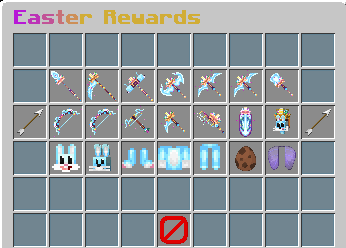
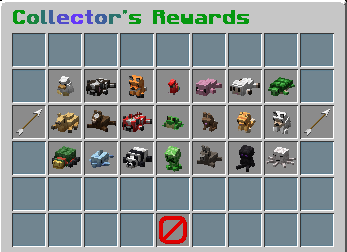
Updated Index slideshow images to match with current crate and removed Event Items webpage

diff --git a/index.html b/index.html
@@ -39,7 +39,6 @@
           <li><a href="/info">About</a></li>
           <li><a href="/crates">Cosmetic Crates</a></li>
           <li><a href="/othercrates">Other Crates</a></li>
-          <li><a href="/othercrates">Event Items</a></li>
         </ul>
         <ul class="nav-login" id="navLogin">
           <!-- This will be dynamically updated -->
@@ -124,11 +123,11 @@
       </div>
       <div class="slider-container">
         <div class="slider" id="slider">
-          <div class="slide"><img src="/assets/slider1.PNG" alt="Easter Crate Page 1"><div class="caption"><h3>Easter Crate</h3><p>Page 1</p></div></div>
-          <div class="slide"><img src="/assets/slider2.PNG" alt="Easter Crate Page 2"><div class="caption"><h3>Easter Crate</h3><p>Page 2</p></div></div>
-          <div class="slide"><img src="/assets/slider3.PNG" alt="Easter Crate Page 3"><div class="caption"><h3>Easter Crate</h3><p>Page 3</p></div></div>
-          <div class="slide"><img src="/assets/slider4.PNG" alt="Easter Crate Page 4"><div class="caption"><h3>Easter Crate</h3><p>Page 4</p></div></div>
-          <div class="slide"><img src="/assets/slider5.PNG" alt="Easter Crate Page 5"><div class="caption"><h3>Easter Crate</h3><p>Page 5</p></div></div>
+          <div class="slide"><img src="/assets/slider1.PNG" alt="Collector's Crate Page 1"><div class="caption"><h3>Collector's Crate</h3><p>Page 1</p></div></div>
+          <div class="slide"><img src="/assets/slider2.PNG" alt="Collector's Crate Page 2"><div class="caption"><h3>Collector's Crate</h3><p>Page 2</p></div></div>
+          <div class="slide"><img src="/assets/slider3.PNG" alt="Collector's Crate Page 3"><div class="caption"><h3>Collector's Crate</h3><p>Page 3</p></div></div>
+          <div class="slide"><img src="/assets/slider4.PNG" alt="Collector's Crate Page 4"><div class="caption"><h3>Collector's Crate</h3><p>Page 4</p></div></div>
+          <div class="slide"><img src="/assets/slider5.PNG" alt="Collector's Crate Page 5"><div class="caption"><h3>Collector's</h3><p>Page 5</p></div></div>
         </div>
         <button class="imgslider prev" onclick="moveSlide(-1)"><i class="fas fa-chevron-left"></i></button>
         <button class="imgslider next" onclick="moveSlide(1)"><i class="fas fa-chevron-right"></i></button>

diff --git a/public/info.html b/public/info.html
@@ -39,7 +39,6 @@
           <li><a href="/info" class="active">About</a></li>
           <li><a href="/crates">Cosmetic Crates</a></li>
           <li><a href="/othercrates">Other Crates</a></li>
-          <li><a href="/othercrates">Event Items</a></li>
         </ul>
         <ul class="nav-login" id="navLogin">
           <li id="loginItem"><a href="/login">Login</a></li>

diff --git a/public/crates.html b/public/crates.html
@@ -32,7 +32,6 @@
           <li><a href="/info">About</a></li>
           <li><a href="/crates" class="active">Cosmetic Crates</a></li>
           <li><a href="/othercrates">Other Crates</a></li>
-          <li><a href="/othercrates">Event Items</a></li>
         </ul>
         <ul class="nav-login" id="navLogin">
           <!-- This will be dynamically updated -->

diff --git a/public/othercrates.html b/public/othercrates.html
@@ -32,7 +32,6 @@
           <li><a href="/info">About</a></li>
           <li><a href="/crates">Cosmetic Crates</a></li>
           <li><a href="/othercrates" class="active">Other Crates</a></li>
-          <li><a href="/othercrates">Event Items</a></li>
         </ul>
         <ul class="nav-login" id="navLogin">
           <!-- This will be dynamically updated -->

diff --git a/public/contact-success.html b/public/contact-success.html
@@ -128,7 +128,6 @@
           <li><a href="/info">About</a></li>
           <li><a href="/crates">Cosmetic Crates</a></li>
           <li><a href="/othercrates">Other Crates</a></li>
-          <li><a href="/othercrates">Event Items</a></li>
         </ul>
         <ul class="nav-login" id="navLogin">
           <li id="loginItem"><a href="/login">Login</a></li>

diff --git a/public/admin-dashboard.html b/public/admin-dashboard.html
@@ -31,7 +31,6 @@
           <li><a href="/info">About</a></li>
           <li><a href="/crates">Cosmetic Crates</a></li>
           <li><a href="/othercrates">Other Crates</a></li>
-          <li><a href="/othercrates">Event Items</a></li>
         </ul>
         <ul class="nav-login" id="navLogin">
           <!-- This will be dynamically updated -->

diff --git a/public/privacy.html b/public/privacy.html
@@ -31,7 +31,6 @@
           <li><a href="/info">About</a></li>
           <li><a href="/crates">Cosmetic Crates</a></li>
           <li><a href="/othercrates">Other Crates</a></li>
-          <li><a href="/othercrates">Event Items</a></li>
         </ul>
         <ul class="nav-login" id="navLogin">
           <!-- This will be dynamically updated -->

diff --git a/public/terms.html b/public/terms.html
@@ -31,7 +31,6 @@
           <li><a href="/info">About</a></li>
           <li><a href="/crates">Cosmetic Crates</a></li>
           <li><a href="/othercrates">Other Crates</a></li>
-          <li><a href="/othercrates">Event Items</a></li>
         </ul>
         <ul class="nav-login" id="navLogin">
           <!-- This will be dynamically updated -->

diff --git a/public/account.html b/public/account.html
@@ -28,7 +28,6 @@
         <li><a href="/info">About</a></li>
         <li><a href="/crates">Cosmetic Crates</a></li>
         <li><a href="/othercrates">Other Crates</a></li>
-        <li><a href="/othercrates">Event Items</a></li>
       </ul>
       <ul class="nav-login" id="navLogin">
         <li id="loginItem"><a href="/login">Login</a></li>

diff --git a/public/forgot-password.html b/public/forgot-password.html
@@ -25,7 +25,6 @@
         <li><a href="/info">About</a></li>
         <li><a href="/crates">Cosmetic Crates</a></li>
         <li><a href="/othercrates">Other Crates</a></li>
-        <li><a href="/othercrates">Event Items</a></li>
       </ul>
       <ul class="nav-login" id="navLogin">
         <li id="loginItem"><a href="/login">Login</a></li>

diff --git a/public/login.html b/public/login.html
@@ -25,7 +25,6 @@
         <li><a href="/info">About</a></li>
         <li><a href="/crates">Cosmetic Crates</a></li>
         <li><a href="/othercrates">Other Crates</a></li>
-        <li><a href="/othercrates">Event Items</a></li>
       </ul>
       <ul class="nav-login" id="navLogin">
         <li id="loginItem"><a href="/login">Login</a></li>

diff --git a/public/logout.html b/public/logout.html
@@ -26,7 +26,6 @@
         <li><a href="/info">About</a></li>
         <li><a href="/crates">Cosmetic Crates</a></li>
         <li><a href="/othercrates">Other Crates</a></li>
-        <li><a href="/othercrates">Event Items</a></li>
       </ul>
       <ul class="nav-login" id="navLogin">
         <li id="loginItem"><a href="/login">Login</a></li>
